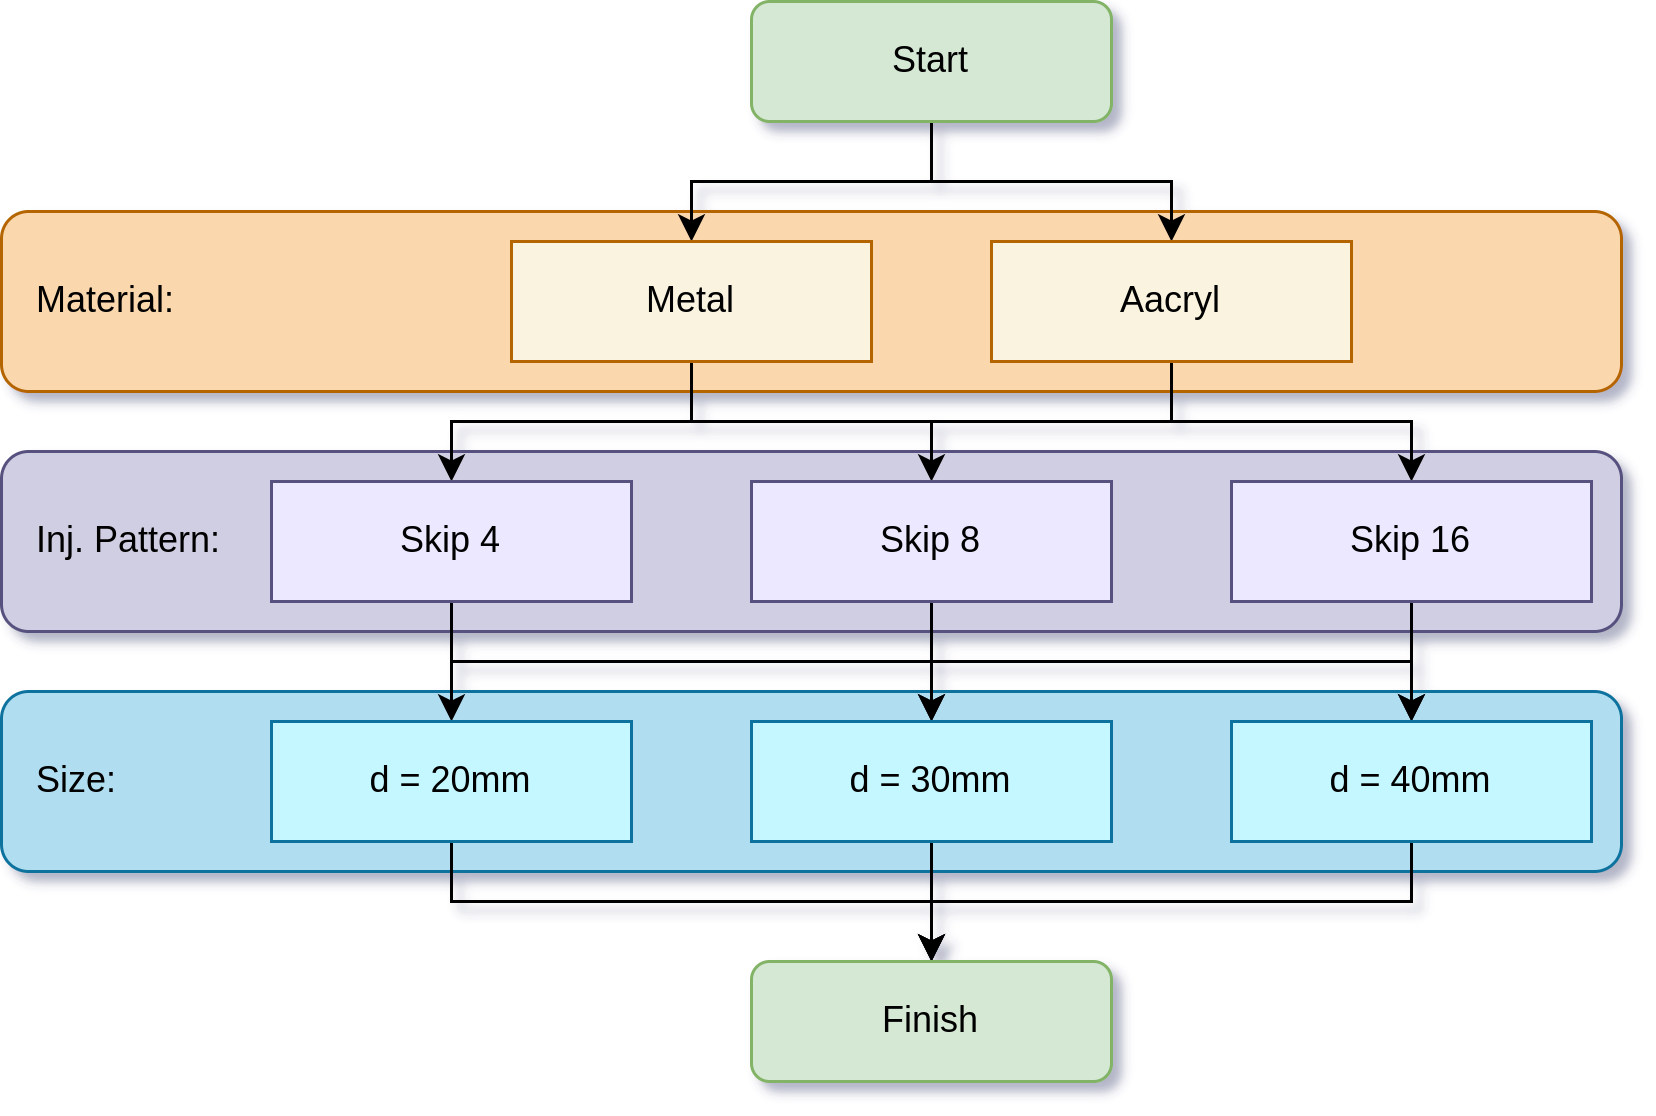
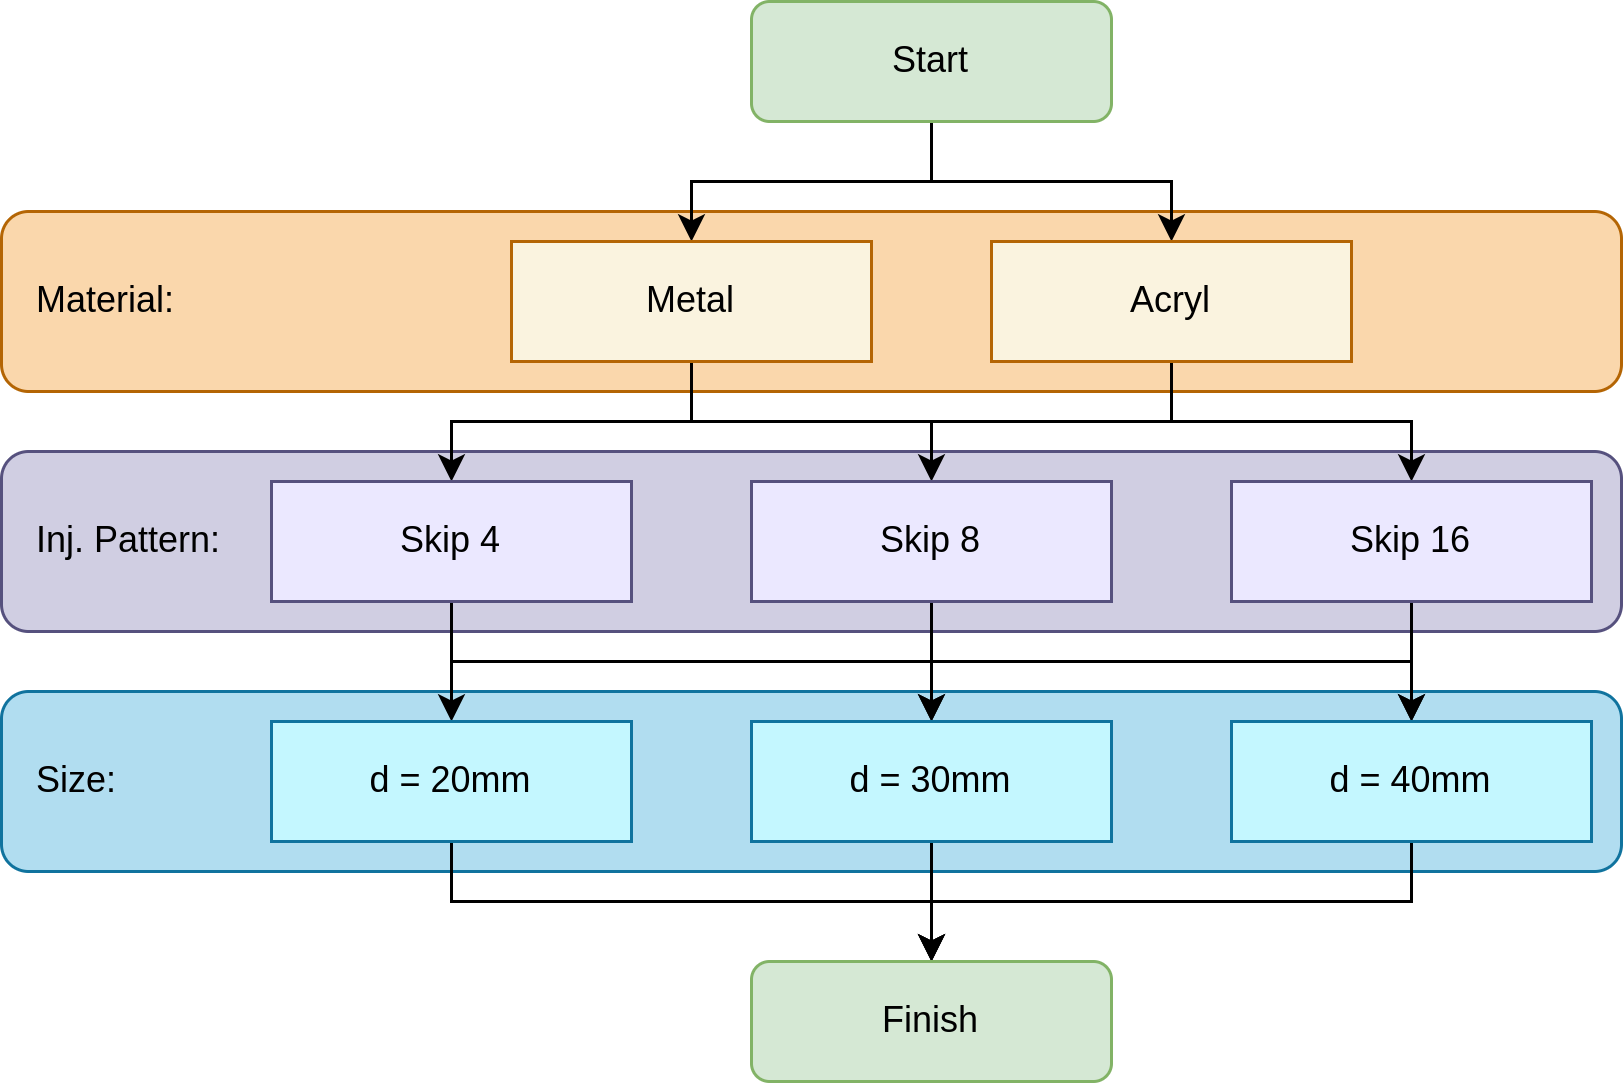
corrected readme

diff --git a/README.md b/README.md
@@ -54,5 +54,5 @@ The coordinate system for controlling the Ender 5 is different from the python s
 
 ### Measurement Objects
 
-In total 36 measurement combination are planned.
+In total 18 measurement combination are planned.
 ![measurement_tree](images/measurement_tree.png)
